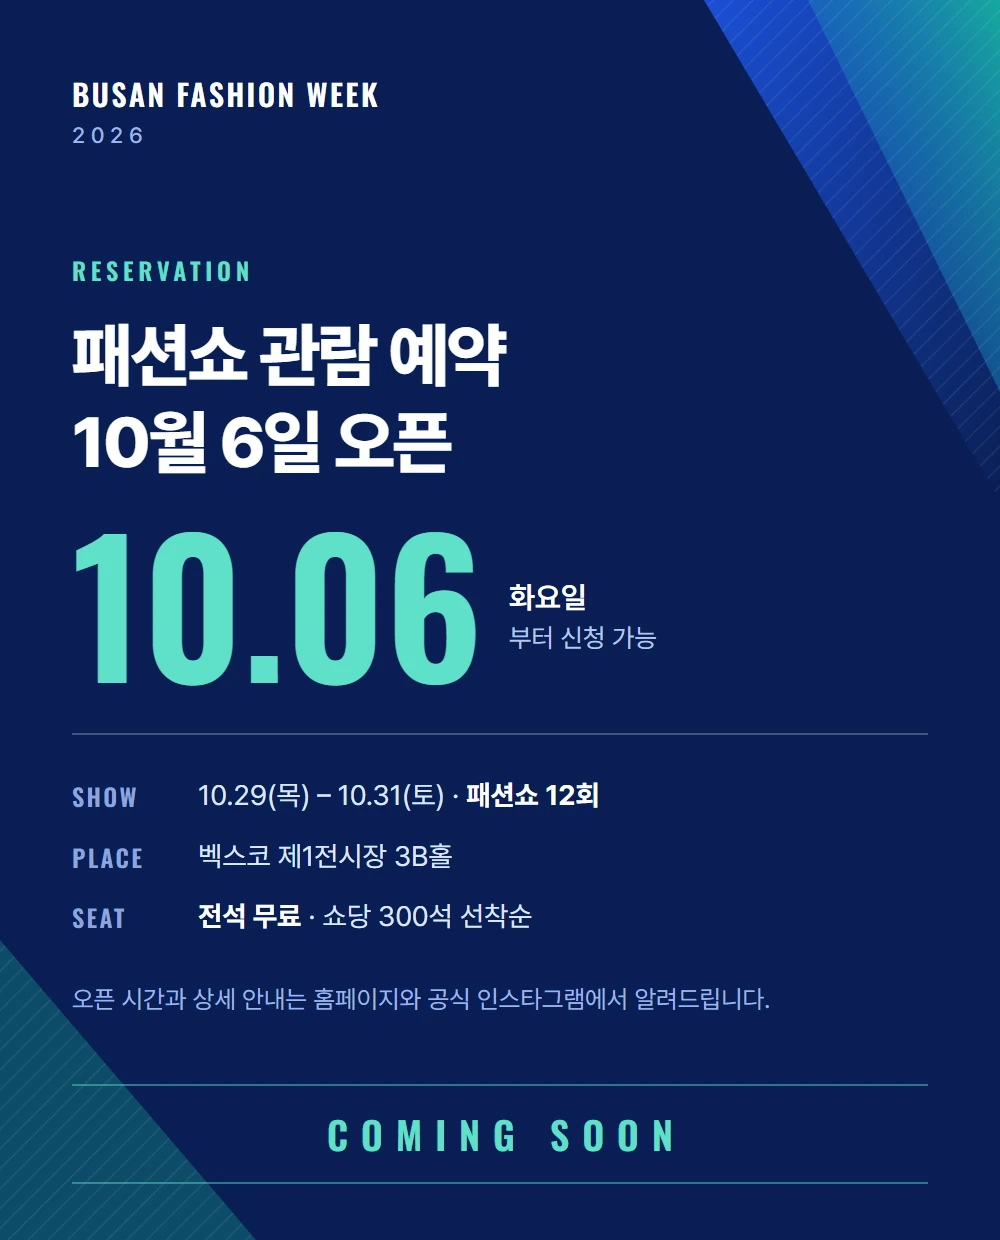
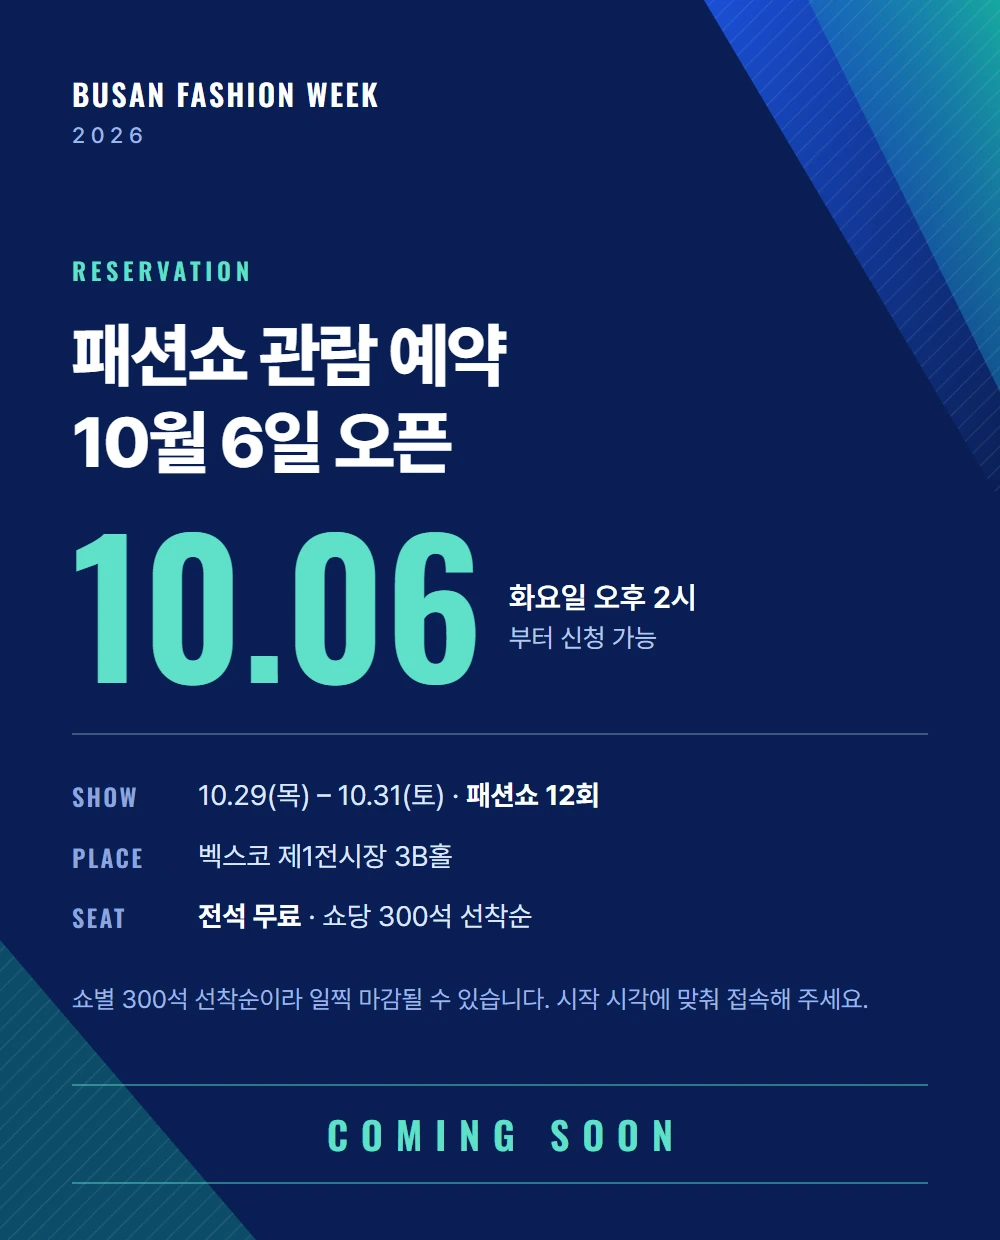
오픈 시각 10월 6일 14:00 으로 (전용 크론 신설 · 팝업과 안내 문구 반영)

Changed region(s): [[0.062, 0.7968, 0.868, 0.8274], [0.589, 0.4597, 0.713, 0.4903]]

diff --git a/api/cron-remind.js b/api/cron-remind.js
@@ -30,55 +30,10 @@ function qs(url, key) {
   return m ? decodeURIComponent(m[1]) : null;
 }
 
-/* ===========================================================
-   관람 예약 자동 오픈
-
-   정해진 날이 되면 서버 스위치(app_settings.reservations_open)를
-   스스로 켠다. 사람이 그날 자리에 없어도 열리게 하려는 장치다.
-   이 파일은 하루 한 번(한국시간 오전 10시) 자동 실행되므로,
-   오픈일 아침 10시에 켜진다.
-
-   안전장치
-     · OPEN_ON 보다 이른 날에는 어떤 경우에도 켜지 않는다
-     · 이미 켜져 있으면 아무것도 하지 않는다 (몇 번 돌아도 같다)
-     · 날짜 비교는 한국시간 기준 'YYYY-MM-DD' 문자열로만 한다
-   끄고 싶으면 OPEN_ON 을 빈 문자열로 두면 된다.
-   =========================================================== */
-const OPEN_ON = "2026-10-06";
-
-function kstToday() {
-  const kst = new Date(Date.now() + 9 * 60 * 60 * 1000);
-  return kst.getUTCFullYear() + "-" +
-    String(kst.getUTCMonth() + 1).padStart(2, "0") + "-" +
-    String(kst.getUTCDate()).padStart(2, "0");
-}
-
-async function maybeOpenReservations(dry) {
-  const today = kstToday();
-  if (!OPEN_ON) return { acted: false, why: "자동 오픈 꺼짐", today };
-  if (today < OPEN_ON) return { acted: false, why: "오픈일 전", today, openOn: OPEN_ON };
-
-  let cur = null;
-  try {
-    const rows = await L.sb("/rest/v1/app_settings?select=reservations_open&limit=1");
-    cur = rows && rows[0] ? rows[0].reservations_open : null;
-  } catch (e) {
-    return { acted: false, why: "상태 조회 실패", detail: String(e && e.message), today };
-  }
-  if (cur === true) return { acted: false, why: "이미 열려 있음", today };
-  if (dry) return { acted: false, why: "dry — 열었을 상태", wouldOpen: true, today };
-
-  try {
-    await L.sb("/rest/v1/app_settings?id=eq.true", {
-      method: "PATCH",
-      headers: { Prefer: "return=minimal" },
-      body: { reservations_open: true }
-    });
-  } catch (e) {
-    return { acted: false, why: "켜지 못함", detail: String(e && e.message), today };
-  }
-  return { acted: true, why: "관람 예약을 열었습니다", today };
-}
+/* 관람 예약 자동 오픈은 api/_open.js 가 맡는다.
+   본 담당은 /api/cron-open (한국시간 14:00) 이고, 여기서 한 번 더 부르는 것은
+   그쪽이 실패했을 때를 대비한 예비다. 오픈 시각 전에는 아무 일도 하지 않는다. */
+const OPEN = require("./_open");
 
 module.exports = async (req, res) => {
   const url = req.url || "";
@@ -95,9 +50,9 @@ module.exports = async (req, res) => {
     }
   }
 
-  /* 안내 발송보다 먼저, 오픈일이 됐는지 확인한다.
+  /* 안내 발송보다 먼저, 오픈 시각이 됐는지 확인한다.
      여기서 실패해도 아래 안내 발송은 그대로 진행한다. */
-  const open = await maybeOpenReservations(dry);
+  const open = await OPEN.maybeOpen(dry);
 
   const date = qs(url, "date") || kstTomorrow();
 

diff --git a/api/_open.js b/api/_open.js
@@ -1,0 +1,60 @@
+/* ===========================================================
+   관람 예약 자동 오픈
+
+   정해진 시각(한국시간)이 되면 서버 스위치
+   app_settings.reservations_open 을 스스로 켠다.
+   사람이 그 시각에 자리에 없어도 열리게 하려는 장치다.
+
+   누가 부르나
+     · /api/cron-open    매일 한국시간 14:00 (vercel.json 의 crons)
+     · /api/cron-remind  매일 한국시간 10:00 — 혹시 위가 실패했을 때의 예비
+
+   안전장치
+     · OPEN_AT 보다 이른 시각에는 어떤 경우에도 켜지 않는다
+     · 이미 켜져 있으면 아무것도 하지 않는다 (몇 번 돌아도 결과가 같다)
+     · 비교는 한국시간 'YYYY-MM-DD HH:MM' 문자열로만 한다
+   끄려면 OPEN_AT 을 빈 문자열로 둔다.
+
+   날짜·시각을 바꾸면 js/popup.js 의 openFrom 과
+   js/reserve.js 의 안내 문구도 함께 고쳐야 한다.
+   =========================================================== */
+const L = require("./_lib");
+
+const OPEN_AT = "2026-10-06 14:00";
+
+/* 한국시간 현재를 'YYYY-MM-DD HH:MM' 으로 */
+function kstNow() {
+  const k = new Date(Date.now() + 9 * 60 * 60 * 1000);
+  const p = (n) => String(n).padStart(2, "0");
+  return k.getUTCFullYear() + "-" + p(k.getUTCMonth() + 1) + "-" + p(k.getUTCDate()) +
+    " " + p(k.getUTCHours()) + ":" + p(k.getUTCMinutes());
+}
+
+async function maybeOpen(dry) {
+  const now = kstNow();
+  if (!OPEN_AT) return { acted: false, why: "자동 오픈 꺼짐", now: now };
+  if (now < OPEN_AT) return { acted: false, why: "오픈 시각 전", now: now, openAt: OPEN_AT };
+
+  let cur = null;
+  try {
+    const rows = await L.sb("/rest/v1/app_settings?select=reservations_open&limit=1");
+    cur = rows && rows[0] ? rows[0].reservations_open : null;
+  } catch (e) {
+    return { acted: false, why: "상태 조회 실패", detail: String(e && e.message), now: now };
+  }
+  if (cur === true) return { acted: false, why: "이미 열려 있음", now: now };
+  if (dry) return { acted: false, why: "dry — 실제로는 열었을 상태", wouldOpen: true, now: now };
+
+  try {
+    await L.sb("/rest/v1/app_settings?id=eq.true", {
+      method: "PATCH",
+      headers: { Prefer: "return=minimal" },
+      body: { reservations_open: true }
+    });
+  } catch (e) {
+    return { acted: false, why: "켜지 못함", detail: String(e && e.message), now: now };
+  }
+  return { acted: true, why: "관람 예약을 열었습니다", now: now };
+}
+
+module.exports = { OPEN_AT, kstNow, maybeOpen };

diff --git a/js/popup.js b/js/popup.js
@@ -14,12 +14,13 @@
 
   var POPUP = {
     enabled: true,
-    /* 오픈일이 되면 판이 저절로 바뀐다 — 그날 배포하지 않아도 된다.
-         이 날짜 전 : "soon" (COMING SOON, 링크 없음)
-         이 날짜부터 : "open" (예약하러 가기 → 예약 페이지)
-       서버 스위치도 같은 날 오전 10시에 자동으로 켜진다(api/cron-remind.js).
-       날짜를 바꾸려면 두 곳을 함께 고친다. */
-    openFrom: "2026-10-06",
+    /* 오픈 시각이 되면 판이 저절로 바뀐다 — 그날 배포하지 않아도 된다.
+         이 시각 전 : "soon" (COMING SOON, 링크 없음)
+         이 시각부터 : "open" (예약하러 가기 → 예약 페이지)
+       서버 스위치도 같은 시각에 자동으로 켜진다(api/_open.js 의 OPEN_AT).
+       시각을 바꾸려면 두 곳과 js/reserve.js 안내 문구를 함께 고친다.
+       (보는 사람 기기의 시계를 쓴다. 서버가 먼저 열리므로 몇 분 어긋나도 탈이 없다.) */
+    openFrom: "2026-10-06 14:00",
     /* 날짜와 무관하게 한쪽으로 고정하고 싶을 때만 "soon" 또는 "open" 을 적는다 */
     variant: "",
     /* 이 날짜까지만 보여준다. 행사 전날(10.28)까지 */
@@ -39,10 +40,16 @@
     return d.getFullYear() + "-" + ("0" + (d.getMonth() + 1)).slice(-2) + "-" + ("0" + d.getDate()).slice(-2);
   }
 
-  /* 오늘 날짜로 어느 판을 보여줄지 정한다 (variant 를 적어두면 그쪽이 우선) */
+  /* 'YYYY-MM-DD HH:MM' — openFrom 과 같은 형식이라 문자열로 바로 견준다 */
+  function nowStamp() {
+    var d = new Date(), p = function (n) { return ("0" + n).slice(-2); };
+    return today() + " " + p(d.getHours()) + ":" + p(d.getMinutes());
+  }
+
+  /* 지금 시각으로 어느 판을 보여줄지 정한다 (variant 를 적어두면 그쪽이 우선) */
   function variantNow() {
     if (POPUP.variant) return POPUP.variant;
-    if (POPUP.openFrom && today() >= POPUP.openFrom) return "open";
+    if (POPUP.openFrom && nowStamp() >= POPUP.openFrom) return "open";
     return "soon";
   }
 

diff --git a/api/cron-open.js b/api/cron-open.js
@@ -1,0 +1,35 @@
+/* ===========================================================
+   관람 예약 자동 오픈 (하루 한 번, 한국시간 14:00)
+
+   vercel.json 의 crons 에 등록돼 있다. 하는 일은 하나뿐이다 —
+   오픈 시각이 됐으면 서버 스위치를 켜고, 아니면 아무것도 하지 않는다.
+
+     GET /api/cron-open         자동 실행(Vercel)이 부르는 주소
+     GET /api/cron-open?dry=1   켜지 않고 지금 판정만 확인 (아무나 봐도 되는 정보)
+
+   실제 동작은 api/_open.js 에 있다. 날짜·시각도 거기서 고친다.
+   =========================================================== */
+const L = require("./_lib");
+const OPEN = require("./_open");
+
+function qs(url, key) {
+  const m = new RegExp("[?&]" + key + "=([^&]*)").exec(url || "");
+  return m ? decodeURIComponent(m[1]) : null;
+}
+
+module.exports = async (req, res) => {
+  const dry = qs(req.url || "", "dry") === "1";
+
+  /* 바깥에서 함부로 켜지 못하게 막는다. Vercel 자동 실행은 CRON_SECRET 을 함께 보낸다.
+     판정만 보는 dry 조회는 바꾸는 게 없으므로 열어둔다. */
+  const secret = process.env.CRON_SECRET || "";
+  if (!dry && secret) {
+    const auth = req.headers["authorization"] || "";
+    if (auth !== "Bearer " + secret) {
+      return L.json(res, 401, { ok: false, error: "unauthorized" });
+    }
+  }
+
+  const open = await OPEN.maybeOpen(dry);
+  return L.json(res, 200, { ok: true, openAt: OPEN.OPEN_AT, open: open });
+};

diff --git a/js/reserve.js b/js/reserve.js
@@ -62,7 +62,7 @@
         '<div class="closed-note open-soon">' +
           '<span class="os-tag">RESERVATION</span>' +
           '<strong class="os-d">10.06</strong>' +
-          '<b class="os-h">패션쇼 관람 예약은 10월 6일(화)에 열립니다</b>' +
+          '<b class="os-h">패션쇼 관람 예약은 10월 6일(화) 오후 2시에 열립니다</b>' +
           '<span class="os-p">이 페이지에서 바로 신청하실 수 있습니다.<br>' +
           '전 패션쇼 무료 · 쇼당 300석 선착순 · 회원가입 없이 신청</span>' +
         '</div>';
